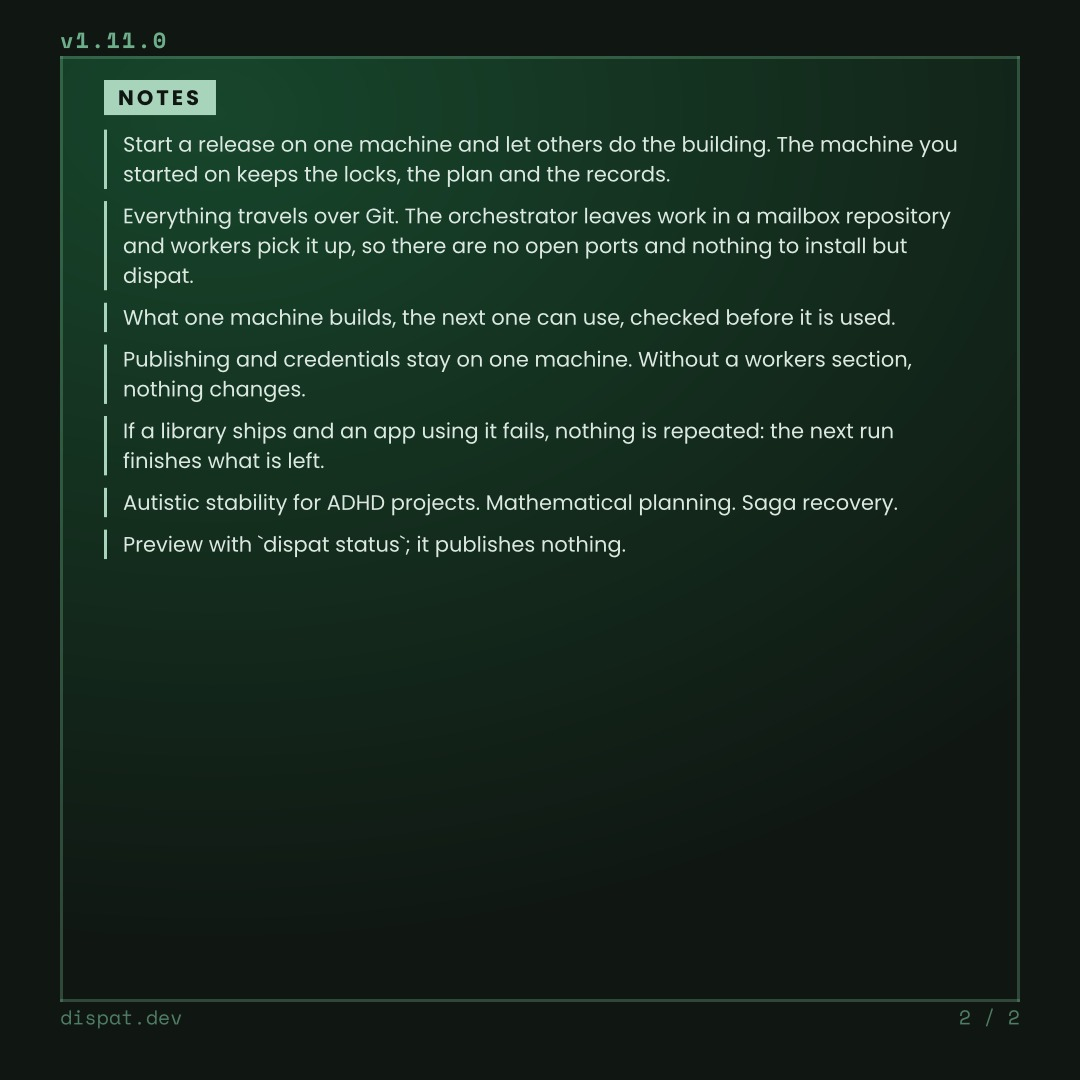
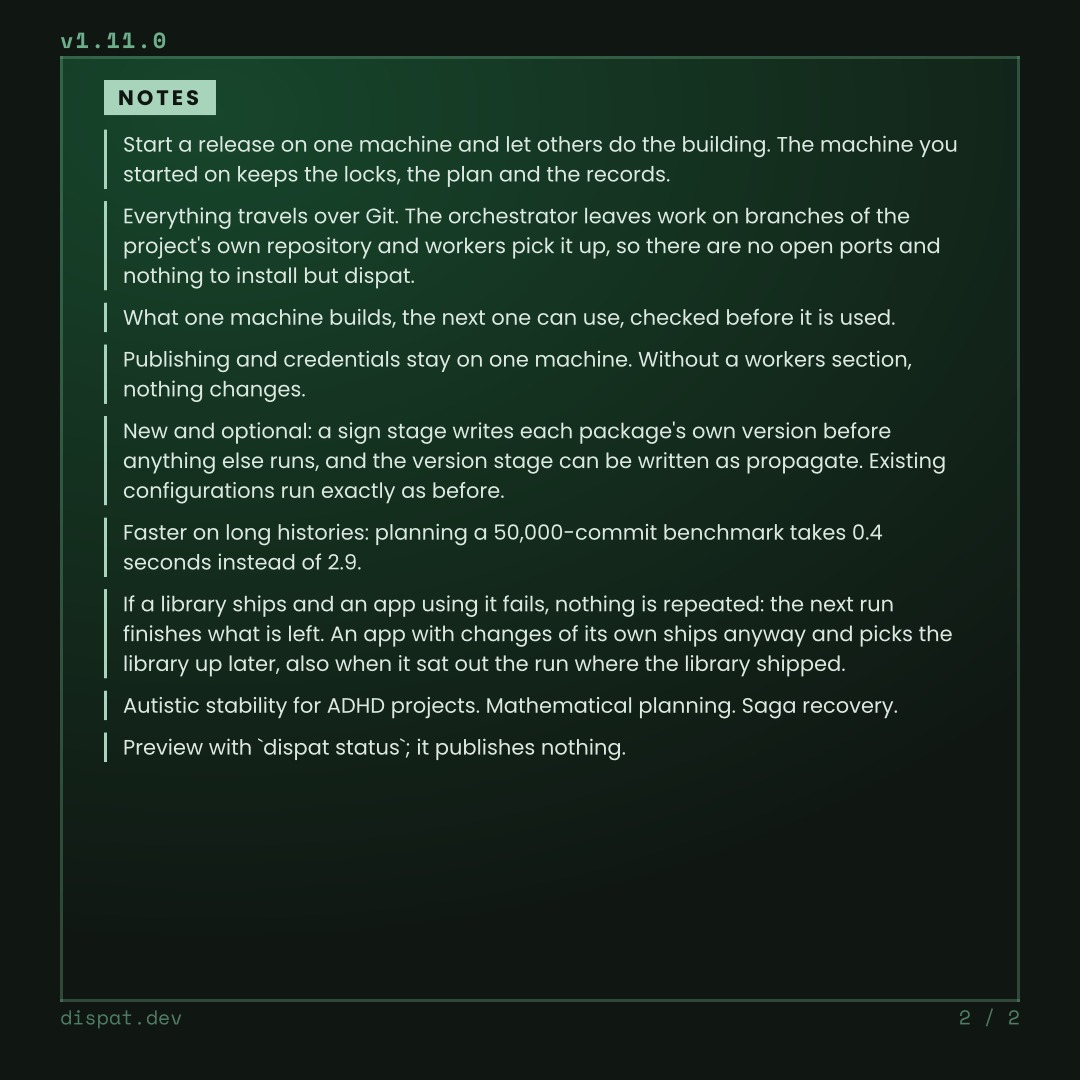
fix(docs): announce how much faster planning is on long histories
The candidate's announcement, and the stable draft beside it, say what the
planning work bought in one measured sentence: on the 50,000-commit
benchmark, planning takes 0.4 seconds instead of 2.9. The cards carry the
same words, and their previews are rendered again with the seed each
release's announcement uses, so they show the post as it goes out.

Changed region(s): [[0.0917, 0.3972, 0.8861, 0.7028], [0.1222, 0.1833, 0.8861, 0.275]]

diff --git a/packages/docs/announce/rc/template.html b/packages/docs/announce/rc/template.html
@@ -239,6 +239,7 @@
     <p>Shipping the library alone on the very commit the app was last released at is refused, because two tags on one commit cannot say which came first. Commit first, or ship both together.</p>
     <p>New and optional: a sign stage writes each package's own version before anything else runs, and the version stage can be written as propagate, with autoPropagate beside autoVersion. Existing configurations run exactly as before.</p>
     <p>Harder to break: an interrupt while the release commit and tags are written still records what published, and a skipped package leaves no edits and no lockfile entries behind.</p>
+    <p>Faster on long histories: planning a 50,000-commit benchmark takes 0.4 seconds instead of 2.9.</p>
     <p>Measured, not claimed. A new release experiment breaks the app's publish after the library shipped and counts what dispat, lerna, nx and changesets each need to catch up. The table is on the site.</p>
     <p>Worker nodes use the project's own repository as their mailbox, find it from their own checkout, and tell a refused push from a lost one. Publishing and credentials stay on one machine.</p>
     <p>Autistic stability for ADHD projects. Mathematical planning. Saga recovery.</p>

diff --git a/packages/docs/announce/stable/template.html b/packages/docs/announce/stable/template.html
@@ -250,6 +250,7 @@
     <p>What one machine builds, the next one can use, checked before it is used.</p>
     <p>Publishing and credentials stay on one machine. Without a workers section, nothing changes.</p>
     <p>New and optional: a sign stage writes each package's own version before anything else runs, and the version stage can be written as propagate. Existing configurations run exactly as before.</p>
+    <p>Faster on long histories: planning a 50,000-commit benchmark takes 0.4 seconds instead of 2.9.</p>
     <p>If a library ships and an app using it fails, nothing is repeated: the next run finishes what is left. An app with changes of its own ships anyway and picks the library up later, also when it sat out the run where the library shipped.</p>
     <p>Autistic stability for ADHD projects. Mathematical planning. Saga recovery.</p>
     <p>Preview with `dispat status`; it publishes nothing.</p>
